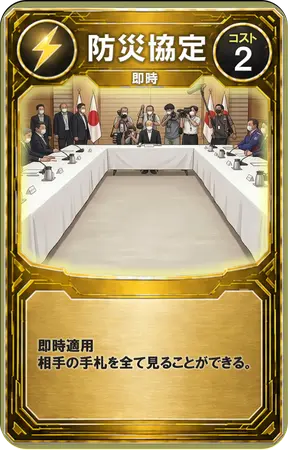
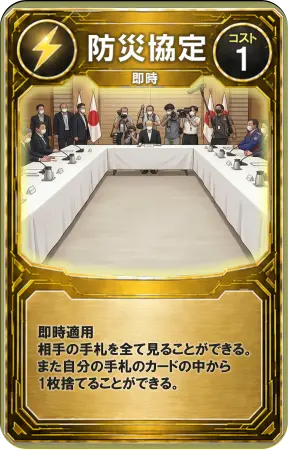
Add files via upload

Changed region(s): [[0.125, 0.7156, 0.875, 0.8711], [0.8125, 0.0933, 0.875, 0.1556]]

diff --git a/game_online.html b/game_online.html
@@ -3255,7 +3255,7 @@
         sections: [
           '「防災協定」の効果で相手の手札が全公開されています。',
           'どんな攻撃が来るか・どんな防御を持っているかを把握して次の手を組み立てましょう。',
-          '「<strong>確認</strong>」を押すと次のアクションに進みます。',
+          '確認後、自分の手札から<strong>1枚だけ任意で捨てる</strong>ことができます。スキップして捨てなくてもかまいません。',
         ]
       },
       gameover: {
@@ -3573,7 +3573,7 @@
       { id: 'kumamoto', name: '熊本', icon: '🌸', hp: 60, isCoastal: false, isMountain: false, abilityType: 'second_hit_reduce', abilityValue: 20, abilityDesc: '同ターン2枚目の災害 −20', concept: '前震・本震の連続。想定外への適応力。', learn: '2016年熊本地震は前震（M6.5）→本震（M7.3）という連続地震で、想定を超えた適応力が求められた。同ターン2枚目の災害への耐性がその経験を示す。' },
       { id: 'niigata', name: '新潟', icon: '❄', hp: 60, isCoastal: false, isMountain: false, abilityType: 'quake_regen', abilityValue: 10, abilityDesc: '地震を受けたターン終了時 +10', concept: '1964年新潟地震。液状化研究の原点。', learn: '1964年新潟地震（M7.5）で液状化現象が大規模に初めて記録され、防災学の重要な研究対象となった。地震を受けたターン後のHP回復は科学的蓄積と学習を象徴する。' },
       { id: 'kagoshima', name: '鹿児島', icon: '🌋', hp: 60, isCoastal: false, isMountain: true, abilityType: 'resist_compound', abilityValue: 20, abilityDesc: '複合災害 −20', concept: '桜島と共生。土砂崩れリスクを受け入れつつ複合災害に備える防災哲学。', learn: '日本有数の活火山・桜島と共生する都市。「ゼロリスクを目指さない」防災哲学のもと、日常的な火山活動への対応力が複合災害への耐性として表れている。' },
-      { id: 'rotterdam', name: 'ロッテルダム', icon: '🌷', hp: 60, isCoastal: true, isMountain: false, abilityType: 'flood_budget', abilityValue: 1, abilityDesc: '洪水・津波後、次ターン予算+1', concept: '水と共存するオランダ型防災哲学。', learn: '国土の4分の1が海面以下のオランダの港湾都市。「水を制御するのではなく水と共存する」防災哲学を世界に発信。洪水・津波後に次ターンの予算が増えるのがその回復力。' },
+      { id: 'rotterdam', name: 'ロッテルダム', icon: '🌷', hp: 60, isCoastal: true, isMountain: false, abilityType: 'flood_budget', abilityValue: 2, abilityDesc: '洪水・津波被弾時、次ターン予算+2', concept: '水と共存するオランダ型防災哲学。', learn: '国土の4分の1が海面以下のオランダの港湾都市。「水を制御するのではなく水と共存する」防災哲学を世界に発信。洪水・津波を受けた後に次ターンの予算が2増えるのはその強靭な復旧力を示す。' },
       { id: 'istanbul', name: 'イスタンブール', icon: '🕌', hp: 60, isCoastal: false, isMountain: false, abilityType: 'quake_draw', abilityValue: 1, abilityDesc: '地震を受けたとき1枚ドロー', concept: '北アナトリア断層直上。事後学習型防災。', learn: '北アナトリア断層直上に位置し高確率でM7超の地震が予測されるが、耐震化は遅れている。地震後にカードを引く能力は「被災して初めて学ぶ事後学習型防災」の現実を示す。' },
       { id: 'new_orleans', name: 'ニューオーリンズ', icon: '🎷', hp: 60, isCoastal: true, isMountain: false, abilityType: 'vulnerability_draw', abilityValue: 10, abilityDesc: '手札≤2枚のとき +10被害・1枚ドロー', concept: '社会的脆弱性と地域の底力。打たれるほどに立ち上がるコミュニティの力。', learn: '2005年ハリケーン・カトリーナで被害が社会的弱者に集中したことが「社会的脆弱性」概念を世界に知らしめた。手札が少ない（準備不足の）状態でさらに被害が増える。' },
     ];
@@ -3586,7 +3586,7 @@
       { id: 'agreement', name: '相互支援協定', icon: '🤝', cost: 2, type: 'policy', color: 'yellow', effectType: 'heal', value: 30, desc: 'HP +30（対応時+15）', realConcept: '自治体間の広域連携・相互応援体制。大きなHP回復は広域連携の有効性を示し、対応時の効果半減は「事前の合意があってこそ機能する」ことを表す。' },
       { id: 'evacuation', name: '広域避難指示', icon: '📢', cost: 2, type: 'policy', color: 'green', effectType: 'negate_special', value: 10, desc: '特殊効果を無効＋ダメージ−10', realConcept: '「逃げる」という判断を制度化したソフト対策。台風の手札廃棄・複合災害のスキップも事前設置で無効化できる汎用性の高い政策。' },
       { id: 'bousai_cho', name: '防災庁設置', icon: '🏛', cost: 3, type: 'policy', color: 'green', effectType: 'damage_reduce_2t', value: 15, desc: '全ダメージ −15（2回）', realConcept: '包括的な防災組織・制度的基盤の整備（日本では2025年に設置）。2回分のダメージ軽減という持続型効果が、制度投資の長期的な価値を示す。' },
-      { id: 'pact', name: '防災協定', icon: '📋', cost: 2, type: 'policy', color: 'yellow', effectType: 'peek_all', value: 0, desc: '相手の手札を全公開', realConcept: '自治体・企業間の防災情報共有体制。相手の手札を知る（情報収集）ことが効果的な備えの前提になることを示す。' },
+      { id: 'pact', name: '防災協定', icon: '📋', cost: 1, type: 'policy', color: 'yellow', effectType: 'peek_all', value: 0, desc: '相手の手札を全公開＋任意で手札1枚を捨てられる', realConcept: '自治体・企業間の防災情報共有体制。相手の手札を知る（情報収集）ことが効果的な備えの前提になることを示す。さらに手札を1枚捨てられる効果は、得た情報をもとに自らの備えを見直し、取捨選択することの重要性を表す。' },
     ];
 
     const DISASTER_CARDS = [
@@ -3641,8 +3641,9 @@
     function getActiveCity(pi) { const p = G.players[pi]; return p.cities[p.activeCityIdx]; }
     function getActiveCityHp(pi) { const p = G.players[pi]; return p.cityHps[p.activeCityIdx]; }
     function getActiveMaxHp(pi) { return G.players[pi].cities[G.players[pi].activeCityIdx].hp; }
-    function getBudget(pi) { const p = G.players[pi]; const c = getActiveCity(pi); let b = 3; if (c && c.abilityType === 'extra_budget') b += c.abilityValue; if (c && c.abilityType === 'flood_budget' && p.effects.floodBonusTurns > 0) b += 1; return b; }
+    function getBudget(pi) { const p = G.players[pi]; const c = getActiveCity(pi); let b = 3; if (c && c.abilityType === 'extra_budget') b += c.abilityValue; if (c && c.abilityType === 'flood_budget' && p.effects.floodBonusTurns > 0) b += c.abilityValue; return b; }
     function getBudgetLeft(pi) { return getBudget(pi) - G.players[pi].budgetUsed; }
+    function getEffectiveCostToAttack(card, pi) { return card.cost; }
     function addLog(msg, cls = '') {
       let finalCls = cls;
       if (msg.includes('壊滅')) finalCls = (cls ? cls + ' critical' : 'critical');
@@ -3830,7 +3831,7 @@
         if (defCity.abilityType === 'resist_flood' && (attackCard.id === 'flood' || attackCard.id === 'tsunami')) { dmg -= defCity.abilityValue; ld('city_policy', `${defCity.name}の都市対策：洪水・津波軽減（防災投資）`, -defCity.abilityValue); }
         if (defCity.abilityType === 'second_hit_reduce' && def.effects.disastersReceivedThisTurn >= 1) { dmg -= defCity.abilityValue; ld('city_policy', `${defCity.name}の都市対策：連続被弾軽減（適応力）`, -defCity.abilityValue); }
         if (defCity.abilityType === 'quake_regen' && attackCard.id === 'earthquake') def.effects.quakeHitThisTurn = true;
-        if (defCity.abilityType === 'flood_budget' && (attackCard.id === 'flood' || attackCard.id === 'tsunami')) { def.effects.floodBonusTurns = 1; ld('city_effect', `${defCity.name}の都市能力：次ターン予算+1（洪水後の復旧）`, null); G._nextTurnEvents[defIdx].push({ type: 'flood_budget', cityIcon: terrainImg(defCity, 18), cityName: defCity.name }); }
+        if (defCity.abilityType === 'flood_budget' && (attackCard.id === 'flood' || attackCard.id === 'tsunami')) { def.effects.floodBonusTurns = 1; ld('city_effect', `${defCity.name}の都市能力：次ターン予算+${defCity.abilityValue}（洪水後の復旧力）`, null); G._nextTurnEvents[defIdx].push({ type: 'flood_budget', cityIcon: terrainImg(defCity, 18), cityName: defCity.name, bonusAmt: defCity.abilityValue }); }
         if (defCity.abilityType === 'flood_draw' && (attackCard.id === 'flood' || attackCard.id === 'tsunami')) { drawCards(defIdx, defCity.abilityValue); autoDiscard(defIdx); ld('city_effect', `${defCity.name}の都市能力：${defCity.abilityValue}枚ドロー（被災後の学習）`, null); }
         if (defCity.abilityType === 'quake_draw' && attackCard.id === 'earthquake') { drawCards(defIdx, defCity.abilityValue); autoDiscard(defIdx); ld('city_effect', `${defCity.name}の都市能力：${defCity.abilityValue}枚ドロー（被災後の学習）`, null); }
       }
@@ -4183,6 +4184,7 @@
     let _pendingMainHpAnims = [];
     let _pendingCityEnterAnim = false;
     let _cityEnterAnimPi = -1; // 城入場アニメ保留中のプレイヤーindex（-1=なし）
+    let _peekDiscardMode = false;
     let _lobbyEnter = true;
     let _lobbyTitleAnimDone = false;
     let _responseAnimatedPis = new Set();
@@ -5336,7 +5338,7 @@
     <div class="zone-header"><span class="zone-label">${isMe ? 'あなた' : '相手'}</span><span class="city-icon-sm">${c ? terrainImg(c) : ''}</span><button class="city-tap-btn" onclick="showCityInfo(${idx})">${c ? c.name : '?'} ⓘ</button>${c ? `<span class="terrain-badge">(${c.isCoastal ? '海岸' : c.isMountain ? '山間部' : '内陸'})</span>` : ''}</div>
     <div class="hp-section" id="hp-section-${idx}"><div class="hp-bar-wrap"><div class="hp-bar-ghost" id="hp-ghost-${idx}" style="width:${_cityEnterAnimPi === idx ? 0 : Math.max(0, hp / mxHp * 100)}%"></div><div class="hp-bar-fill${hp <= 10 ? ' hp-warn' : ''}" id="hp-fill-${idx}" style="width:${_cityEnterAnimPi === idx ? 0 : Math.max(0, hp / mxHp * 100)}%;background:${hpColor(hp, mxHp)}"></div></div><div class="hp-text" id="hp-text-${idx}" style="color:${hpColor(hp, mxHp)}">${Math.max(0, hp)}/${mxHp}</div>${hp <= 10 ? '<span class="hp-critical-badge">⚠ 壊滅寸前</span>' : hp <= 30 ? '<span class="hp-danger-badge">危険</span>' : ''}</div>
     ${renderBackupCity(idx)}
-    <div class="effects-row">${renderEffectBadges(p.effects)}</div>
+    <div class="effects-row">${renderEffectBadges(p.effects, idx)}</div>
     <div class="hand-cards-area">
       ${isMe ? renderPlayerHandReadOnly(p) : `<div class="hand-back-row">${Array(p.hand.length).fill('<div class="card-back"><img src="images/cards/back.webp" alt="" onerror="this.style.display=\'none\'"></div>').join('')}</div>`}
       <div class="hand-count">手札 ${p.hand.length} 枚</div>
@@ -5437,13 +5439,13 @@
     }
 
     // ─── 効果バッジ ───
-    function renderEffectBadges(eff) {
+    function renderEffectBadges(eff, pi) {
       const b = [];
       if (eff.shieldQuakeFire) b.push(`<span class="eff-badge eff-blue">🏗 耐震シールド</span>`);
       if (eff.shieldFlood) b.push(`<span class="eff-badge eff-blue">🌊 堤防シールド</span>`);
       if (eff.negateSpecial) b.push(`<span class="eff-badge eff-blue">📢 特殊効果無効</span>`);
       if (eff.damageReduceHits > 0) b.push(`<span class="eff-badge eff-yellow">🏛 全ダメ−15（残${eff.damageReduceHits}回）</span>`);
-      if (eff.floodBonusTurns > 0) b.push(`<span class="eff-badge eff-blue">💧 予算+1</span>`);
+      if (eff.floodBonusTurns > 0) { const _fc = pi != null ? getActiveCity(pi) : null; const _fa = _fc?.abilityValue ?? 1; b.push(`<span class="eff-badge eff-blue">💧 予算+${_fa}</span>`); }
       return b.join('') || `<span class="eff-badge eff-gray">効果なし</span>`;
     }
 
@@ -5597,7 +5599,7 @@
       <div class="zone-header"><span class="zone-label">${label}</span><span class="city-icon-sm">${c ? terrainImg(c) : ''}</span><button class="city-tap-btn" onclick="showCityInfo(${idx})">${c ? c.name : '?'} ⓘ</button>${terrainLabel}</div>
       <div class="hp-section" id="hp-section-${idx}"><div class="hp-bar-wrap"><div class="hp-bar-ghost" id="hp-ghost-${idx}" style="width:${_cityEnterAnimPi === idx ? 0 : Math.max(0, hp / mxHp * 100)}%"></div><div class="hp-bar-fill${hp <= 10 ? ' hp-warn' : ''}" id="hp-fill-${idx}" style="width:${_cityEnterAnimPi === idx ? 0 : Math.max(0, hp / mxHp * 100)}%;background:${hpColor(hp, mxHp)}"></div></div><div class="hp-text" id="hp-text-${idx}" style="color:${hpColor(hp, mxHp)}">${Math.max(0, hp)}/${mxHp}</div>${hp <= 10 ? '<span class="hp-critical-badge">⚠ 壊滅寸前</span>' : hp <= 30 ? '<span class="hp-danger-badge">危険</span>' : ''}</div>
       ${renderBackupCity(idx)}
-      <div class="effects-row">${renderEffectBadges(p.effects)}</div>
+      <div class="effects-row">${renderEffectBadges(p.effects, idx)}</div>
       <div class="hand-cards-area">${isMe ? zoneHand(idx) : `<div class="hand-back-row">${zoneHand(idx)}</div>`}${!isMe ? `<div class="hand-count">手札 ${p.hand.length} 枚</div>` : ''}</div>
     ${footer}</div>`;
       }
@@ -5818,24 +5820,68 @@
       </div>`;
     }
 
-    // ─── 防災協定（全公開） ───
+    // ─── 防災協定（全公開＋任意捨て） ───
     function renderPeek() {
-      const cards = G.peekCards || (G.peekCard ? [G.peekCard] : []);
-      const cardsHtml = cards.map(c => {
+      const pi = G.peekByPlayerIdx ?? G.activePlayer;
+      const oppCards = G.peekCards || (G.peekCard ? [G.peekCard] : []);
+      const oppHtml = oppCards.map(c => {
         const ct = cardCtype(c);
         const borderColor = ct === 'disaster' ? 'var(--red)' : ct === 'shield' ? 'var(--green)' : 'var(--yellow)';
-        const costColor = ct === 'disaster' ? 'var(--red)' : ct === 'shield' ? 'var(--green)' : 'var(--yellow)';
+        const costColor = borderColor;
         return `<div class="peek-card-big" style="flex-shrink:0;border-color:${borderColor}">
           <img src="images/cards/${c.id}.webp" style="width:72px;border-radius:6px" alt="" onerror="this.style.display='none'">
           <div class="pk-icon">${cardTypeIconHtml(c.type, c.color, 32)}</div><div class="pk-name">${c.name}</div>
           <div class="pk-cost" style="color:${costColor}">コスト: ${c.cost}</div>
           <div class="pk-desc">${c.desc}</div></div>`;
       }).join('');
+
+      let actionHtml;
+      if (_peekDiscardMode) {
+        const myHand = G.players[pi].hand;
+        if (myHand.length === 0) {
+          actionHtml = `<div style="text-align:center;color:var(--t2);font-size:.85rem;padding:8px">手札がありません</div>
+            <div style="text-align:center;margin-top:8px"><button class="btn-ho" onclick="closePeek()" style="font-size:.9rem">閉じる</button></div>`;
+        } else {
+          const handHtml = myHand.map(c => {
+            const ct = cardCtype(c);
+            const borderColor = ct === 'disaster' ? 'var(--red)' : ct === 'shield' ? 'var(--green)' : 'var(--yellow)';
+            return `<div class="peek-card-big" style="flex-shrink:0;border-color:${borderColor};cursor:pointer;opacity:.9" onclick="peekDiscard('${c.uid}')">
+              <img src="images/cards/${c.id}.webp" style="width:72px;border-radius:6px" alt="" onerror="this.style.display='none'">
+              <div class="pk-icon">${cardTypeIconHtml(c.type, c.color, 32)}</div><div class="pk-name">${c.name}</div>
+              <div class="pk-cost" style="color:${borderColor}">コスト: ${c.cost}</div>
+              <div class="pk-desc">${c.desc}</div>
+              <div style="margin-top:6px;font-size:.73rem;color:var(--red);font-weight:700">タップで捨てる</div>
+            </div>`;
+          }).join('');
+          actionHtml = `<div style="text-align:center;padding:8px 12px 4px;color:var(--yellow);font-size:.82rem;font-weight:700">📤 捨てるカードを選んでください</div>
+            <div style="display:flex;overflow-x:auto;-webkit-overflow-scrolling:touch;gap:8px;padding:6px 12px 16px;justify-content:flex-start">${handHtml}</div>
+            <div style="text-align:center"><button class="btn-ho" onclick="closePeek()" style="font-size:.9rem">やめる（捨てない）</button></div>`;
+        }
+      } else {
+        actionHtml = `<div style="display:flex;gap:8px;justify-content:center;margin-top:8px;flex-wrap:wrap">
+          <button class="btn-ho" onclick="startPeekDiscard()" style="font-size:.9rem;border-color:var(--red);color:var(--red);background:rgba(248,81,73,.12)">📤 手札を1枚捨てる</button>
+          <button class="btn-ho" onclick="closePeek()" style="font-size:.9rem">スキップ（捨てない）</button>
+        </div>`;
+      }
+
       return `<div class="screen active"><div class="peek-wrap">
-    <div style="text-align:center;padding:12px;color:var(--t2);font-size:.85rem">🔒 相手の手札（${cards.length}枚）</div>
-    <div class="peek-card-display" style="display:flex;overflow-x:auto;-webkit-overflow-scrolling:touch;gap:8px;padding:8px 12px 16px;justify-content:flex-start">${cardsHtml}</div>
-    <div style="text-align:center;margin-top:8px"><button class="btn-ho" onclick="closePeek()" style="font-size:.9rem">確認した（閉じる）</button></div>
+    <div style="text-align:center;padding:12px;color:var(--t2);font-size:.85rem">🔒 相手の手札（${oppCards.length}枚）</div>
+    <div class="peek-card-display" style="display:flex;overflow-x:auto;-webkit-overflow-scrolling:touch;gap:8px;padding:8px 12px 16px;justify-content:flex-start">${oppHtml}</div>
+    ${actionHtml}
   </div></div>`;
+    }
+
+    function startPeekDiscard() { _peekDiscardMode = true; render(); }
+
+    function peekDiscard(uid) {
+      const pi = G.peekByPlayerIdx ?? G.activePlayer;
+      const p = G.players[pi];
+      const idx = p.hand.findIndex(c => c.uid === uid);
+      if (idx === -1) return;
+      const card = p.hand.splice(idx, 1)[0];
+      G.discard.push(card);
+      addLog(`📤 ${p.name}が防災協定で手札1枚を捨てた（${card.icon} ${card.name}）`, 'sys');
+      closePeek();
     }
 
     // ─── ターンサマリー ───
@@ -5863,7 +5909,7 @@
         if (ev.type === 'disaster_agency_remaining') { if (ev.remaining === 0) return `<div class="ts-ev warn"><div class="ts-ev-title">🏛 防災庁設置の効果が終了しました</div><div class="ts-ev-detail">次の攻撃からは全ダメージ −15 の軽減はありません</div></div>`; return `<div class="ts-ev warn"><div class="ts-ev-title">🏛 防災庁設置：残り ${ev.remaining} 回</div><div class="ts-ev-detail">あと ${ev.remaining} 回の被攻撃まで全ダメージ −15</div></div>`; }
         if (ev.type === 'response_skipped') return `<div class="ts-ev warn" style="border-color:var(--red)"><div class="ts-ev-title">⚡ 複合災害：対応フェーズがスキップされました</div><div class="ts-ev-detail">${ev.cityName ? `「${ev.cityName}」` : '相手'}は政策カードを使用できませんでした</div></div>`;
         if (ev.type === 'opp_regen') return `<div class="ts-ev heal"><div class="ts-ev-title">💚 ${ev.cityIcon} ${ev.cityName}：HP +${ev.amount} 回復</div><div class="ts-ev-detail">HP ${ev.hpBefore} → ${ev.hpAfter}</div></div>`;
-        if (ev.type === 'flood_budget') return `<div class="ts-ev budget"><div class="ts-ev-title">💧 ${ev.cityIcon} ${ev.cityName}：今ターン予算 +1</div><div class="ts-ev-detail">洪水・津波後の復旧ボーナス（このターン有効）</div></div>`;
+        if (ev.type === 'flood_budget') return `<div class="ts-ev budget"><div class="ts-ev-title">💧 ${ev.cityIcon} ${ev.cityName}：今ターン予算 +${ev.bonusAmt ?? 1}</div><div class="ts-ev-detail">洪水・津波後の復旧ボーナス（このターン有効）</div></div>`;
         if (ev.type === 'typhoon_discard') return `<div class="ts-ev typhoon" style="border-color:var(--yellow);border-width:2px;background:rgba(227,179,65,.1)"><div class="ts-ev-title" style="font-size:1.1rem">🌀 台風の特殊効果！</div><div style="margin:6px 0;padding:7px 10px;background:rgba(248,81,73,.1);border-radius:6px;border:1px solid rgba(248,81,73,.3);text-align:center;color:var(--red);font-weight:700;font-size:.88rem">⚠ 手札からカードが奪われました！</div><div class="ts-ev-detail" style="font-size:1rem;text-align:center"><span style="font-size:2rem">${ev.cardIcon}</span><br>「<strong>${ev.cardName}</strong>」が手札から失われました</div></div>`;
         if (ev.type === 'city_switch') return `<div class="ts-ev warn" style="border-color:var(--yellow);border-width:2px;background:rgba(227,179,65,.1)"><div class="ts-ev-title" style="font-size:1.15rem">💥 ${ev.oldCityName}が壊滅！</div><div class="ts-ev-detail">${ev.newCityIcon} <strong>${ev.newCityName}</strong> が次の都市として登場します</div></div>`;
         return '';
@@ -5905,7 +5951,7 @@
         if (ev.type === 'disaster_agency_remaining') { if (ev.remaining === 0) return `<div class="ts-ev warn"><div class="ts-ev-title">🏛 防災庁設置の効果が終了しました</div><div class="ts-ev-detail">次の攻撃からは全ダメージ −15 の軽減はありません</div></div>`; return `<div class="ts-ev warn"><div class="ts-ev-title">🏛 防災庁設置：残り ${ev.remaining} 回</div><div class="ts-ev-detail">あと ${ev.remaining} 回の被攻撃まで全ダメージ −15</div></div>`; }
         if (ev.type === 'response_skipped') return `<div class="ts-ev warn" style="border-color:var(--red)"><div class="ts-ev-title">⚡ 複合災害：対応フェーズがスキップされました</div><div class="ts-ev-detail">${ev.cityName ? `「${ev.cityName}」` : 'あなた'}は政策カードを使用できませんでした</div></div>`;
         if (ev.type === 'opp_regen') return `<div class="ts-ev heal"><div class="ts-ev-title">💚 ${ev.cityIcon} ${ev.cityName}：HP +${ev.amount} 回復</div><div class="ts-ev-detail">HP ${ev.hpBefore} → ${ev.hpAfter}</div></div>`;
-        if (ev.type === 'flood_budget') return `<div class="ts-ev budget"><div class="ts-ev-title">💧 ${ev.cityIcon} ${ev.cityName}：今ターン予算 +1</div><div class="ts-ev-detail">洪水・津波後の復旧ボーナス（このターン有効）</div></div>`;
+        if (ev.type === 'flood_budget') return `<div class="ts-ev budget"><div class="ts-ev-title">💧 ${ev.cityIcon} ${ev.cityName}：今ターン予算 +${ev.bonusAmt ?? 1}</div><div class="ts-ev-detail">洪水・津波後の復旧ボーナス（このターン有効）</div></div>`;
         if (ev.type === 'typhoon_discard') return `<div class="ts-ev typhoon" style="border-color:var(--yellow);border-width:2px;background:rgba(227,179,65,.1)"><div class="ts-ev-title" style="font-size:1.1rem">🌀 台風の特殊効果！</div><div style="margin:6px 0;padding:7px 10px;background:rgba(248,81,73,.1);border-radius:6px;border:1px solid rgba(248,81,73,.3);text-align:center;color:var(--red);font-weight:700;font-size:.88rem">⚠ あなたの手札からカードが奪われました！</div><div class="ts-ev-detail" style="font-size:1rem;text-align:center"><span style="font-size:2rem">${ev.cardIcon}</span><br>「<strong>${ev.cardName}</strong>」が手札から失われました</div></div>`;
         if (ev.type === 'city_switch') return `<div class="ts-ev warn" style="border-color:var(--yellow);border-width:2px;background:rgba(227,179,65,.1)"><div class="ts-ev-title" style="font-size:1.15rem">💥 ${ev.oldCityName}が壊滅！</div><div class="ts-ev-detail">${ev.newCityIcon} <strong>${ev.newCityName}</strong> が次の都市として登場します</div></div>`;
         return '';
@@ -6009,7 +6055,7 @@
             ${hp<=10?'<span class="hp-critical-badge">⚠ 壊滅寸前</span>':hp<=30?'<span class="hp-danger-badge">危険</span>':''}
           </div>
           ${renderBackupCity(idx)}
-          <div class="effects-row">${renderEffectBadges(p.effects)}</div>
+          <div class="effects-row">${renderEffectBadges(p.effects, idx)}</div>
         </div>`;
       }
       function specHand(idx) {
@@ -6444,7 +6490,7 @@
       pushState(); render();
     }
 
-    function closePeek() { G.peekCard = null; G.peekCards = null; G.peekByPlayerIdx = null; G.screen = 'main'; pushState(); render(); }
+    function closePeek() { _peekDiscardMode = false; G.peekCard = null; G.peekCards = null; G.peekByPlayerIdx = null; G.screen = 'main'; pushState(); render(); }
 
     // ─── リマッチ ───
     function doRematch() {
